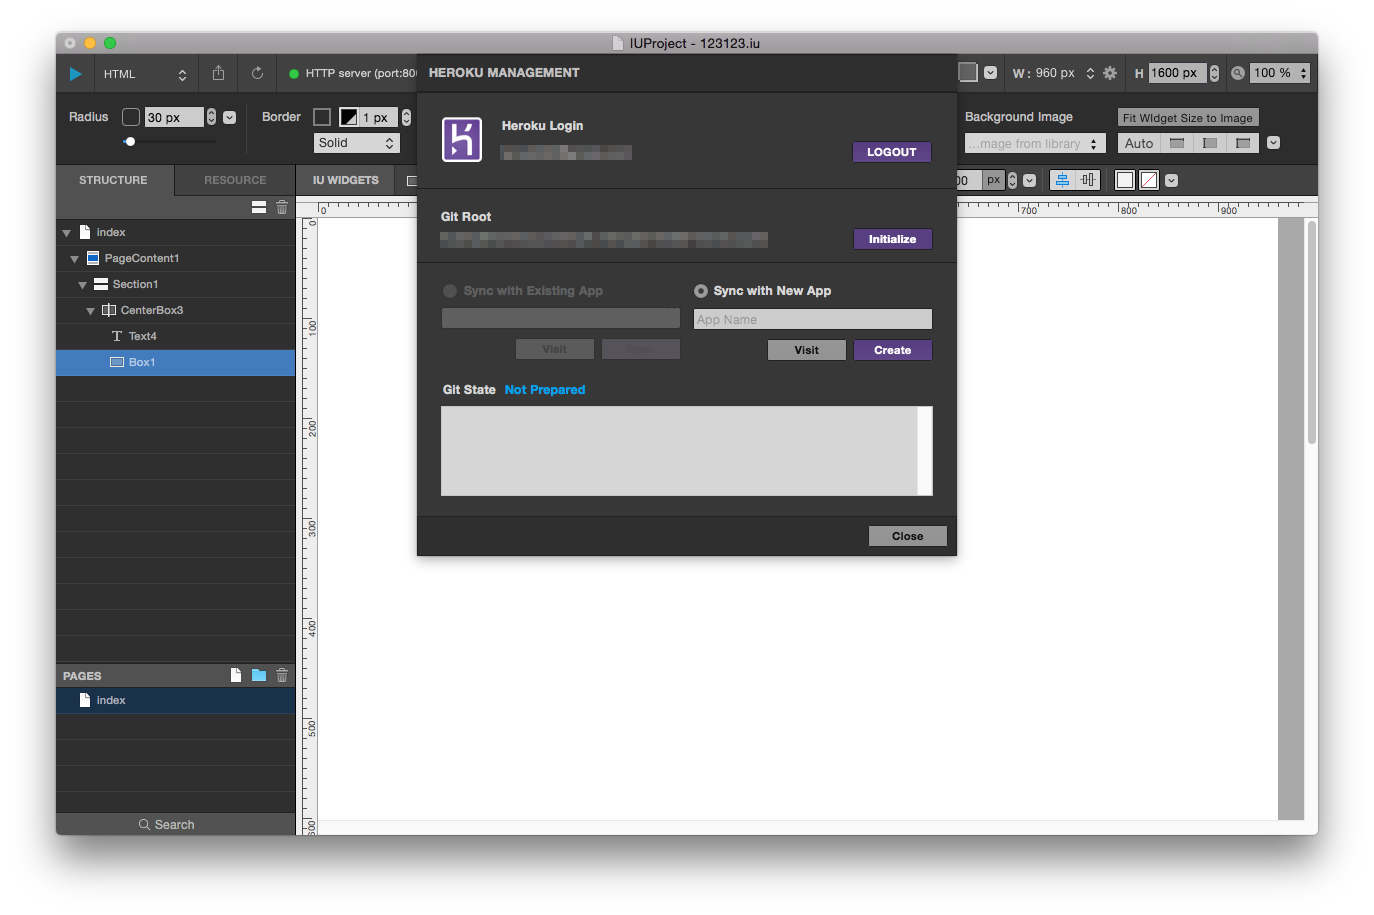
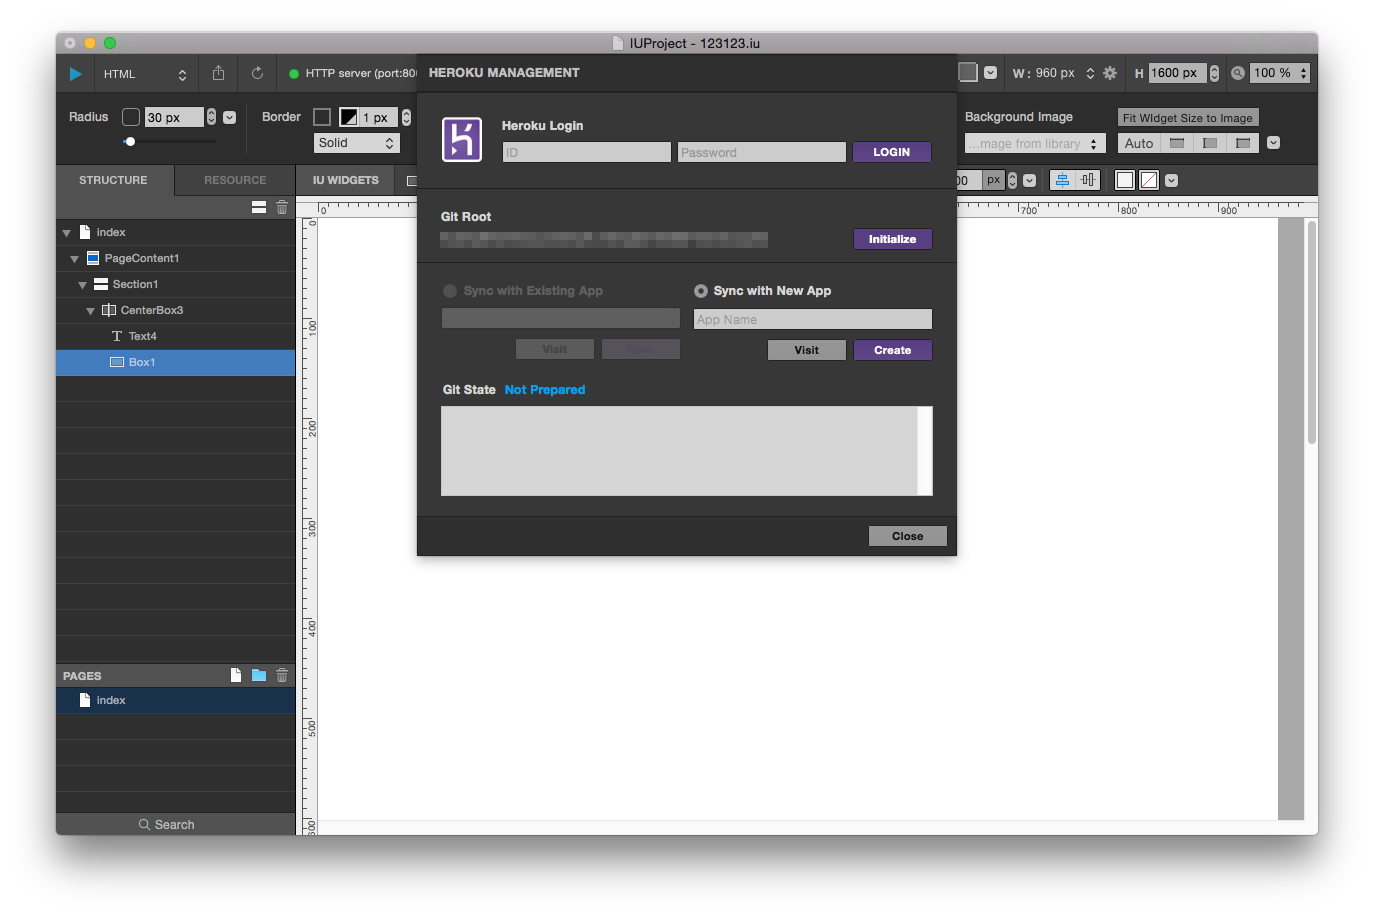
헤로쿠 업로드

Changed region(s): [[0.3668, 0.153, 0.6725, 0.1836]]

diff --git a/docs/Steps/static-web.md b/docs/Steps/static-web.md
@@ -1,5 +1,5 @@
 # 정적인 웹사이트 제작 (새로 만들기)
-데이터베이스와 연동되지 않는 정적인 웹페이지를 제작해보겠습니다.<br /> 
+데이터베이스와 연동되지 않는 정적인 웹페이지를 제작해보겠습니다.<br />(워드프레스 프로젝트는 준비중입니다.)
 
 *****
 ![Alt text](/img/steps-new-project.png)<br />
@@ -41,4 +41,8 @@
 3. __Initialize__ 버튼을 클릭하여 Git 을 준비합니다.
 4. __Sync with New App__ 필드에 원하는 __프로젝트 이름__을 입력합니다.(대소문자구분불가, 공백불가)
 5. 4번까지 완료되었다면, __Create__ 버튼을 클릭합니다.
-6. 
+6. __Git State__ 윈도우에 진행로그가 표시됩니다. 2~5분의 시간이 소요됩니다.
+![Alt text](/img/steps-heroku-success.png)<br />
+7. 업로드가 완료되면, 위처럼 로그가 뜨는 것을 확인할 수 있습니다.
+![Alt text](/img/steps-after-heroku-upload.png)<br />
+7. __visit__ 버튼을 클릭하면, 업로드된 사이트주소로 이동합니다.
